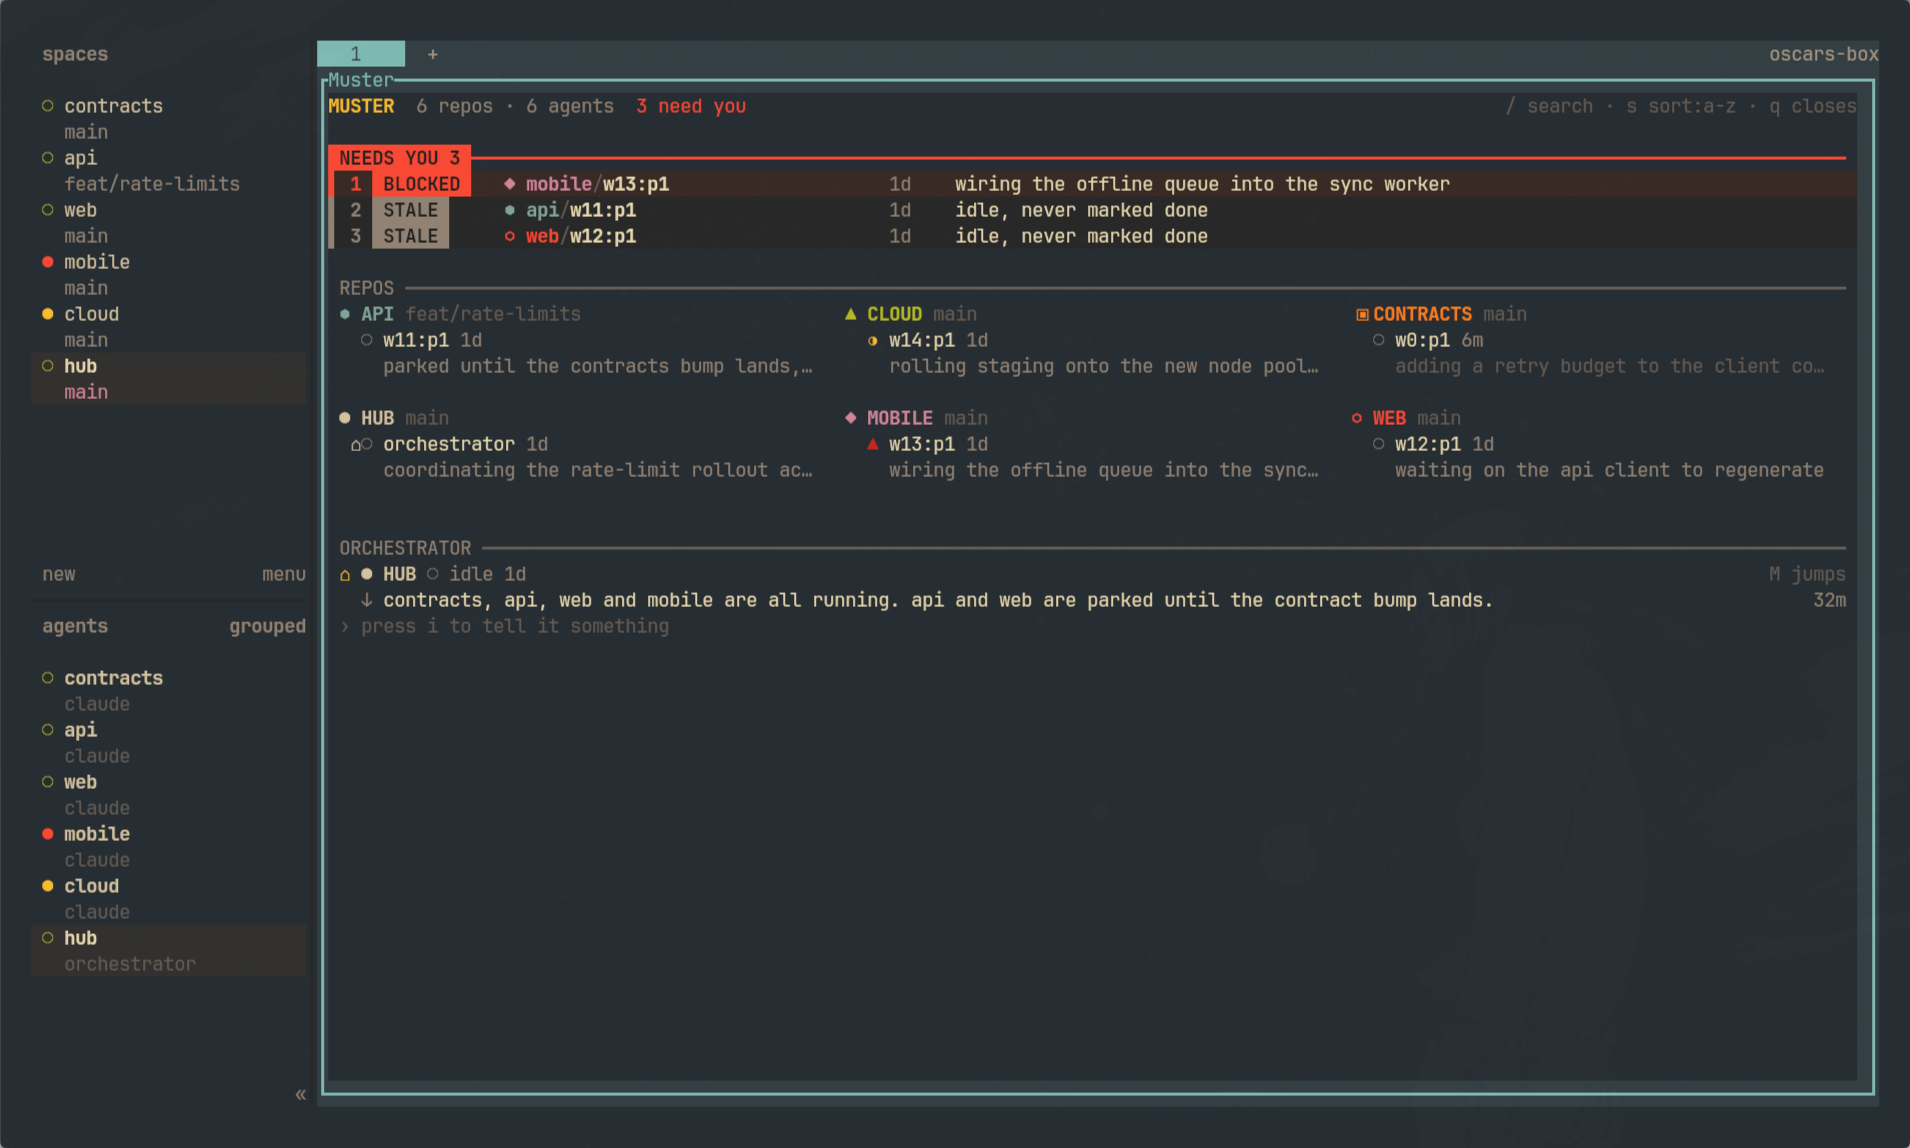
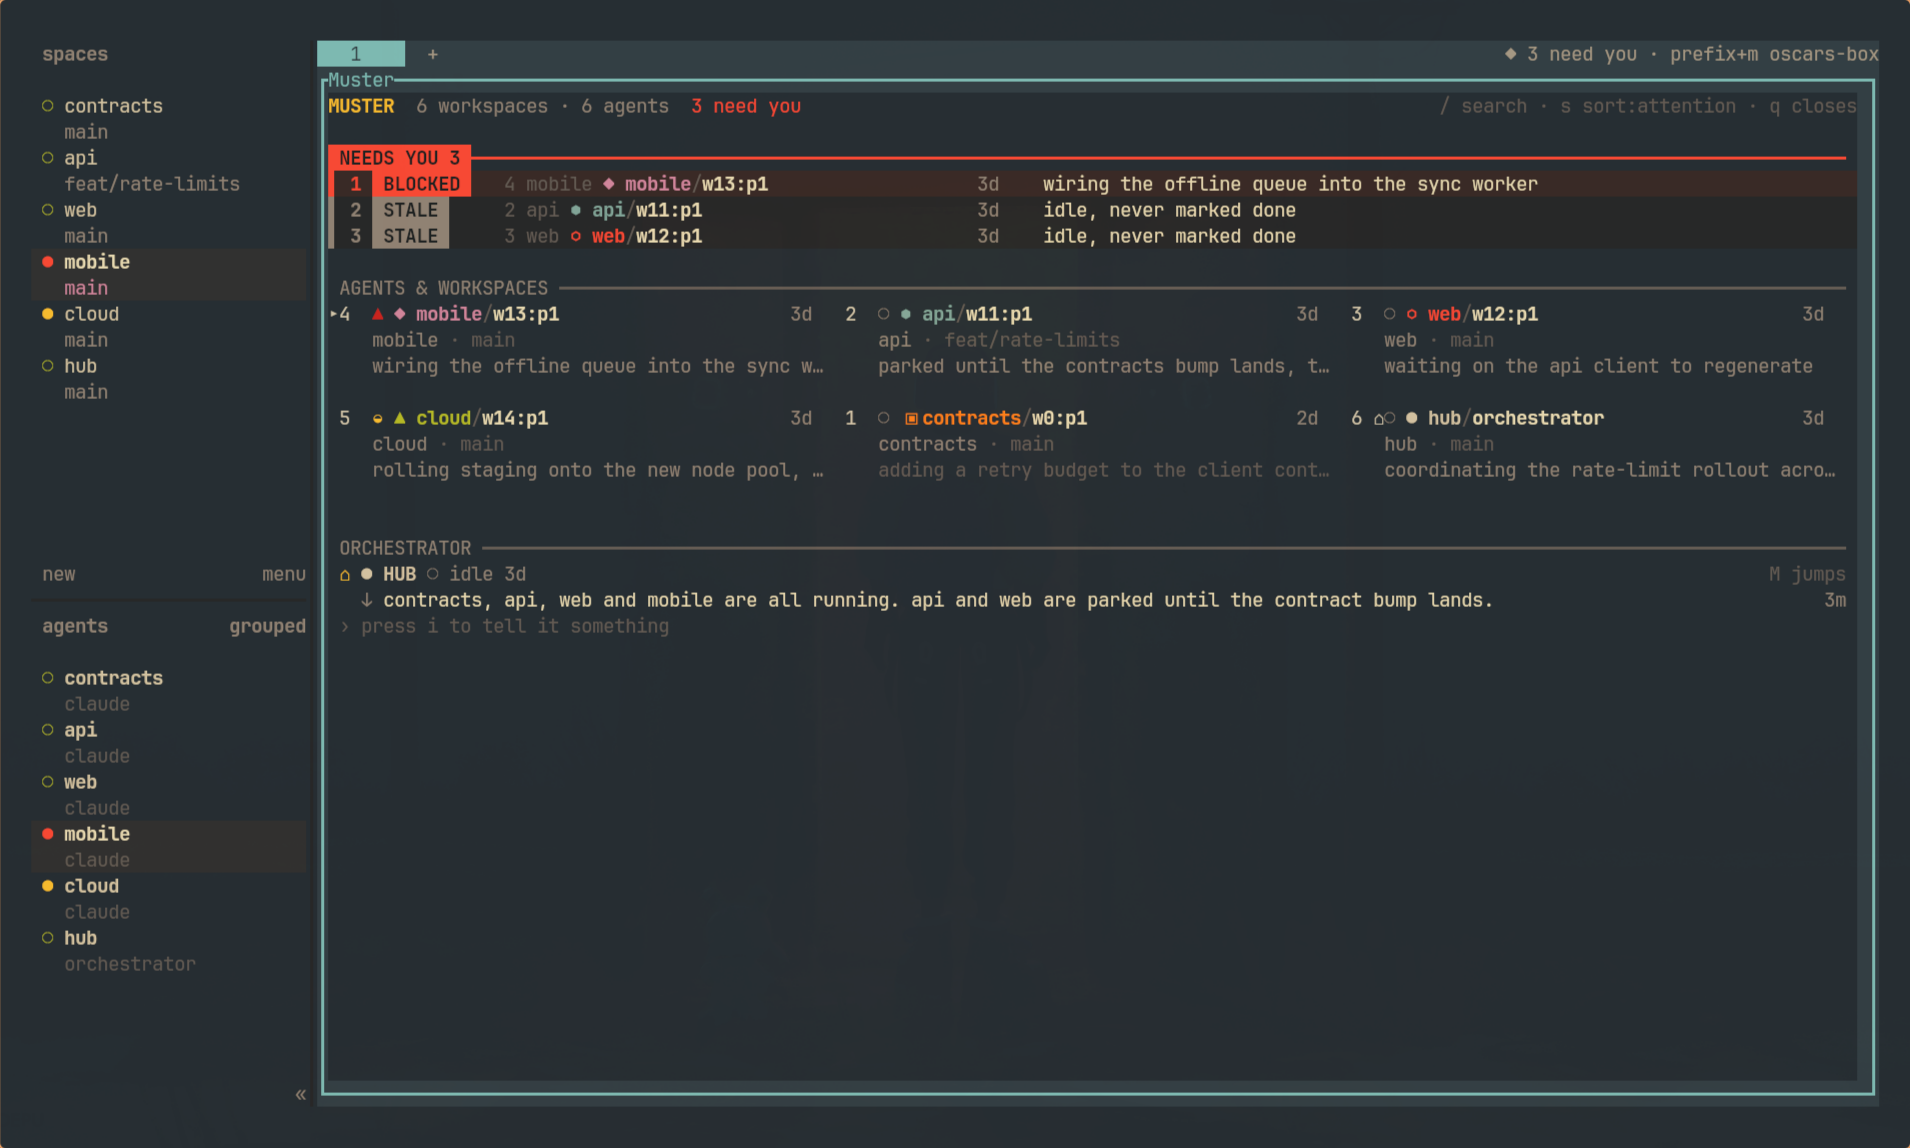
docs: describe tiles, updating and the real herdr floor
The README and the open action still described one card per repo, the
screenshot predated tiles, and the install section named 0.9.0 where the
manifest's floor is 0.8.2. Adds how to update: install again.

Claude-Session: https://claude.ai/code/session_01QTjUePMQZfETDVWQpz7WsM

diff --git a/README.md b/README.md
@@ -1,20 +1,41 @@
 # Muster
 
 A [herdr](https://herdr.dev) plugin. One overlay, one keystroke, showing every
-agent across every repo you have work in: what each is doing, which ones need
-you, and which finished without anyone noticing.
+agent across every repo you have work in.
 
-That last one is why it exists. An agent finishes, the orchestrator never
-learns, and three downstream agents idle against a gate that already opened.
-Muster shows you that and gives you one key to repair it.
+herdr's sidebar handles the straightforward case well. One workspace, one
+agent, everything visible. That breaks down with many agents across many
+repos, especially with an orchestrator handing work between them. Two flat
+lists, workspaces here and agents there, with little visible state. No sorting
+or searching, and no single place to land and see the whole picture.
 
-![The Muster overlay: a ribbon of the agents that need you, above one card per
-repo showing each agent's status, age and task line, with the orchestrator's
-last message along the bottom](docs/overlay.png)
+Muster is that landing place. One tile per agent, and a dim one for each
+workspace with no agent in it. Each agent tile shows what that agent is doing and how long it has sat quiet. Blocked ones show the
+question they are asking. Finished ones stay visible until seen. The ribbon on
+top pulls forward the ones that need attention now. Sort, search, rearrange,
+and jump straight to the pick. The strip along the bottom keeps the
+orchestrator and its last message in view, with keys to talk to it directly.
+
+Task lines come from the reporting skill. It asks the orchestrator to write
+down what each agent is doing at dispatch time, so the overlay shows real work
+instead of guessing from terminal titles.
+
+<!--
+Future intro material, not ready yet. Revisit once this feels solid.
+- The quiet finish story. An agent finishes, the orchestrator never
+  learns, downstream work waits behind an open gate. Muster spots it
+  and the t key reports it back.
+- The dependency vision. Home base showing how work depends on other
+  work, with chains as the recorded order.
+-->
+
+![The Muster overlay: a ribbon of the agents that need you, above one tile per
+agent showing its status, age and task line, with the orchestrator's
+last message along the bottom, beside herdr's own sidebar](docs/overlay.png)
 
 ## Install
 
-Needs herdr 0.9.0 and Go on `PATH`; herdr builds plugins from source. Full list
+Needs herdr 0.8.2 or newer and Go on `PATH`; herdr builds plugins from source. Full list
 under [Requirements](#requirements).
 
 ```sh
@@ -77,8 +98,8 @@ with "no state directory": pass `--state-dir <dir>`.
 
 ## Requirements
 
-- herdr 0.8.2 or newer. Since Muster became a popup, only 0.9.0 has been
-  tested
+- herdr 0.8.2 or newer. The manifest refuses anything older. 0.8.0 and 0.8.1
+  were never tried
 - Go on `PATH`, any version from 1.21. `go.mod` asks for 1.24 and the default
   `GOTOOLCHAIN=auto` fetches it, so an older Go still builds this. A Go with
   `GOTOOLCHAIN=local` set, which some distro packages do, needs 1.24 itself
@@ -100,7 +121,8 @@ from herdr's action menu.
 
 In the overlay:
 
-- arrows or `hjkl` move, `enter` jumps, `/` searches
+- arrows or `hjkl` move, `/` searches, `enter` jumps to the tile's agent or
+  focuses an empty tile's workspace
 - `esc` leaves search, then clears the filter, then closes; `q` or `ctrl+c`
   closes
 - `s` cycles sort (first seen, a-z, attention, herdr); `J`/`K` move the
@@ -109,14 +131,14 @@ In the overlay:
 - digits `1`-`9` jump to a ribbon row, `x` dismisses one until its status
   changes
 - `o` marks the selected agent as the orchestrator
-- `i` messages the orchestrator, `t` reports a finished agent to it (the repair
-  key from the second paragraph)
+- `i` messages the orchestrator, `t` reports a finished agent to it, for when
+  the orchestrator never heard it finish
 - `S` installs the reporting skill, but only while its banner is on screen
 - `M` jumps to the orchestrator. Muster opens as a herdr popup, which gets
   every key while it is open, your prefix included, so this is what keeps
   `prefix+shift+m` working. `prefix+m` does nothing inside; close with `q` or
-  `esc`. `prefix+ctrl+m` arrives as `enter` and jumps to the selected card
-- mouse: click a card to jump, click the banner to install the skill, wheel
+  `esc`. `prefix+ctrl+m` arrives as `enter` and jumps to the selected tile
+- mouse: click a tile to jump to it or focus its workspace, click the banner to install the skill, wheel
   scrolls, hover highlights. A click outside Muster does nothing: herdr keeps
   clicks outside a popup to itself
 
@@ -182,12 +204,23 @@ and decoding the snapshot is all the overlay does at open time;
 
 Colour is a pure hash of the repo key, so it matches on any machine. Sigils are
 not: they follow the grid slot, skipping any mark already on screen, so two
-cards visible at once never carry the same one. Grid slots are
-pinned in `state.json` on first sight, so a repo keeps its cell and its look
-for as long as your state file lives and the grid does not move under you.
+repos on screen at once never carry the same one. Grid slots are pinned in
+`state.json` on first sight. First-seen sort orders tiles by them, and a repo
+keeps its sigil while the set of repos on screen stays the same.
 
 `docs/herdr-api-notes.md` has the verified herdr mechanics the daemon is built
 on, including why events are a hint and never a log.
+
+## Updating
+
+```sh
+herdr plugin install ofelcan164/muster --yes
+```
+
+herdr has no update command, so installing again is the update. It pulls the
+default branch and rebuilds `bin/`; `--ref <ref>` pins something else. The next
+overlay you open runs the new build. The daemon checks its own binary every few
+seconds and restarts itself on the new one, so nothing else needs running.
 
 ## Uninstall
 
@@ -220,7 +253,7 @@ state dir, which is right when the plugin is going away.
 - Muster closed without landing where you picked, or flashed and closed on
   open: the error is in `musterd.log` in the state dir. The popup is gone
   before anything it prints could be read.
-- Cards show terminal titles instead of task lines: the reporting skill is
+- Tiles show terminal titles instead of task lines: the reporting skill is
   missing. Press `S` while its banner is up, or run `muster install-skill`.
 - A new binding does nothing: an old overlay binary keeps running after a
   rebuild, so reopen it. A key you bound yourself is not the cause; install
